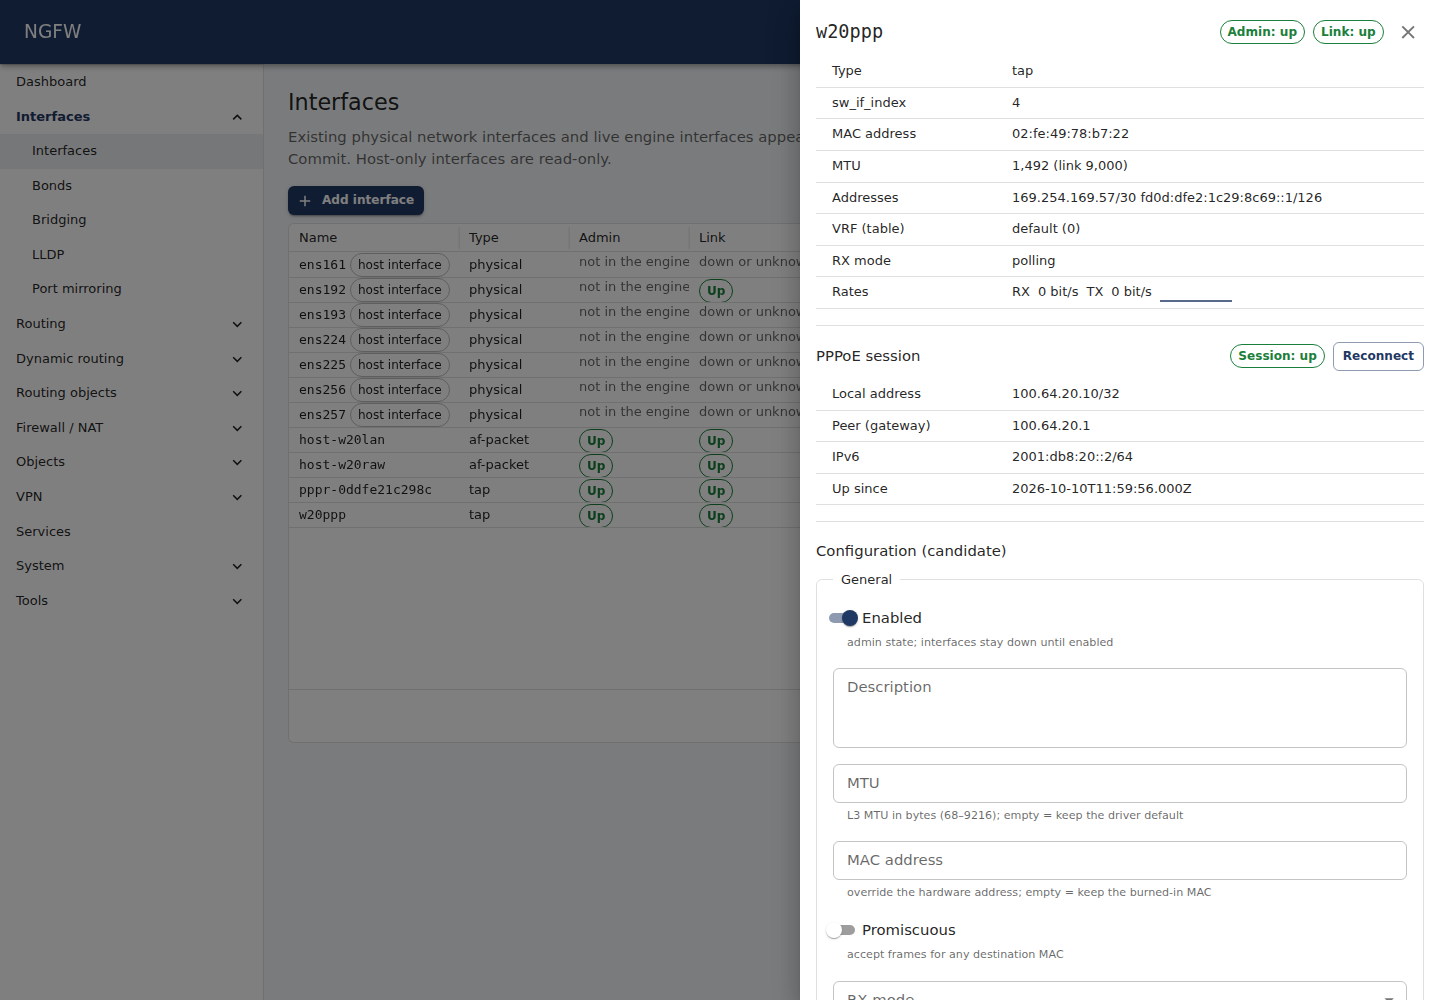
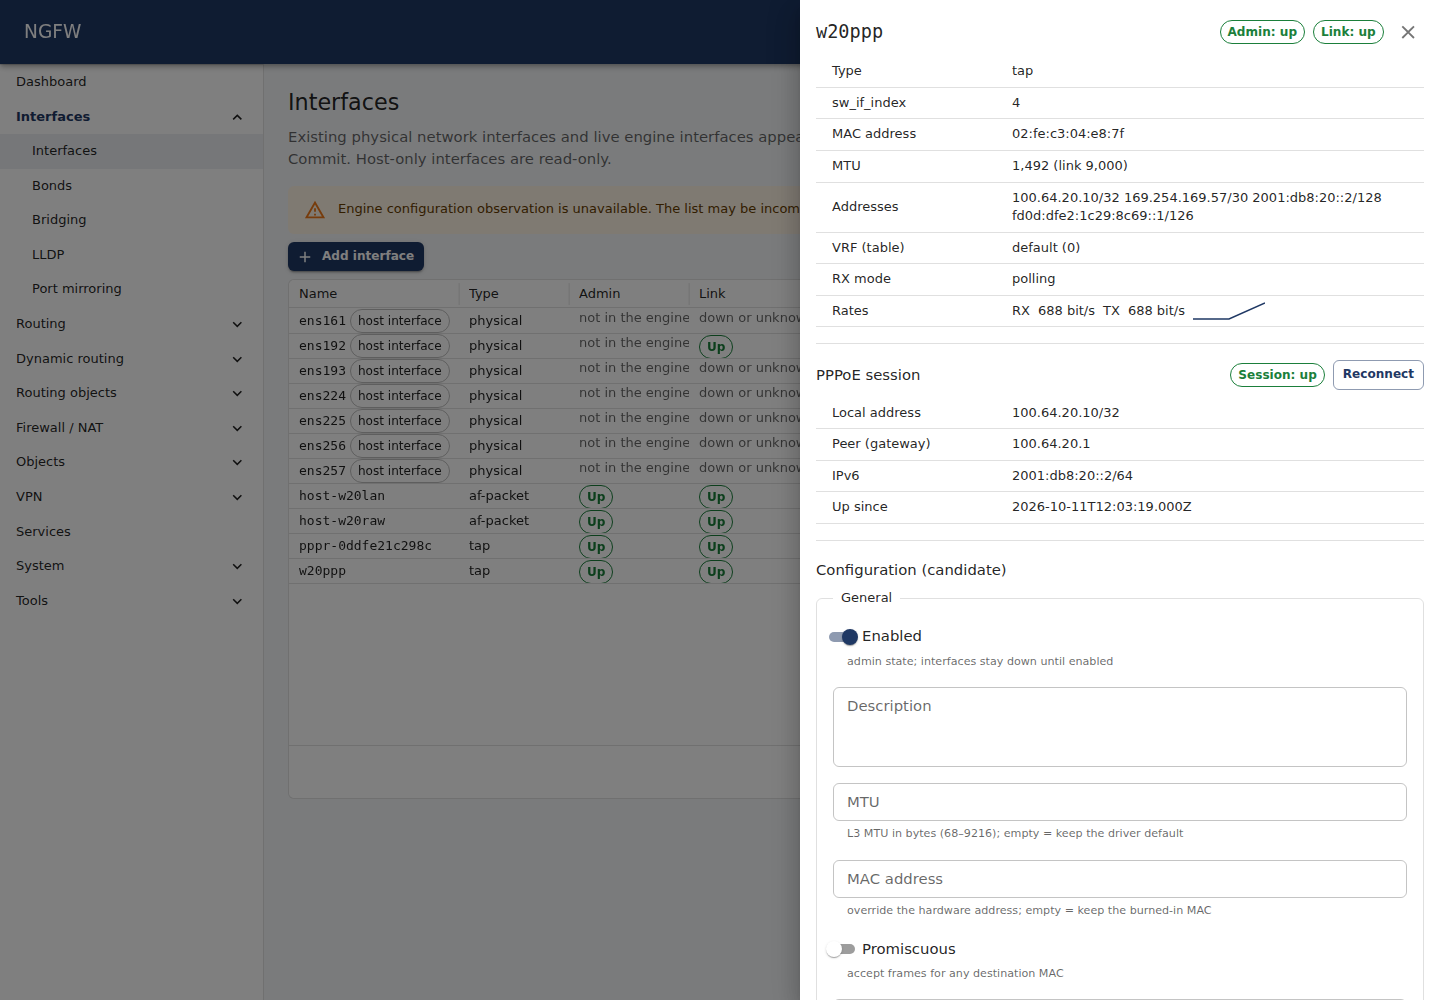
docs(acceptance): record final dual-host PPPoE and MultiWAN proofs

diff --git a/docs/status/tasks/pppoe-ra-completion-20261011-wip.md b/docs/status/tasks/pppoe-ra-completion-20261011-wip.md
@@ -101,7 +101,9 @@ RA stays open.
 
 The genuine source93 agent SHA256
[1 lines of base64/hex data omitted]
-passed the full real-API PPPoE driver on both hosts and the full extended
+passed the baseline real-API PPPoE driver on both hosts (the extended flag
+was accidentally omitted, so these runs do not prove NAT/MSS/peer restart/
+wrong-password acceptance) and the full extended
 1000-flow / automatic-NAT / restart / selective dead-link / PBR MultiWAN
 acceptance on .195. MultiWAN on .250 still exposed an observation/save race:
 resync durably saves the same WAN settings but replaces their snapshot pointer,
@@ -119,3 +121,44 @@ inside the independent network namespace and genuine linux_cp/linux_nl plugins
 are explicitly enabled. These are fixture prerequisites; baseline rejection
 was retained, with no partial desired-state fallback. Canonical activation,
 restart, rollback, API/browser and final-source CI remain pending.
+
+### Final source61 PPPoE and MultiWAN acceptance
+
+Product Go source 61c82b65b2295991f1602c88eaaac0e71b7e8197, static
+agent SHA256 83e7b49dd071ddc34bb45ffc21467eecacb2c9756825bcb0fcf6453e9dbcbb62;
+carrier helper SHA256 dc8e4a2df34537f89bf85f33d60636e5fb1ac7797e9d6c6f606dffcf5a9784a7.
+Mandatory hosted CI 38137613429 PASS (21m13s); packaging 38137613401 PASS.
+The entire local unchanged quick gate passed at c28 (33m51s); that earlier
+local gate is not asserted to cover later Go changes.
+
+Both final PPPoE drivers explicitly used NGFW_WAN_API_EXTENDED=1. On .195
+and .250 all original extended assertions PASS: actual three-packet IPv4/IPv6
+forwarding, default automatic NAT with the negotiated address, native MSS
+1452/1432 in RX/TX, explicit reconnect, loss withdrawal, peer restart and
+recovered packets, real wrong-password error, restored credential and cleared
+errors, both credentials absent from raw logs/config/audit, committed cleanup.
+Restart times were 10.275s and 10.346s against the unchanged 11s criterion.
+The first .195 extended browser run passed genuine endpoint login in English
+and Persian and captured the real active PPP drawer, but FAILED later IPv6
+recovery after peer restart. Its failure is retained; a subsequent full extended
+run passed. The screenshot has a generic engine-observation warning behind
+the drawer. No browser run is represented as full lifecycle acceptance.
+Earlier source93 and initial source61 baseline runs omitted the extended flag;
+the misleading full-acceptance interpretation above is corrected here.
+
+Both final original extended MultiWAN tests PASS (.195 100.42s, .250 79.50s):
+1000 plain flows, 1000 automatic-NAT flows, stable weighted distribution, real
+VPP session persistence after agent restart, complete selective dead-link
+cleanup within the original budget with healthy sessions preserved, restored
+health, PBR precedence over a more-specific ordinary route and 1000 stable
+PBR flows. The private package-identity wrapper changes no shared identity.
+Cleanup and post-incident shared VPP identity checks PASS; the earlier OOM
+incident remains disclosed above. Raw evidence stays private/root0600.
+
+RA is still open. Original-unit native source61 readiness, baseline Retrieve
+and foundation Apply pass after genuine package fixture prerequisites are
+present. Original canonical activation fails at namespace handoff; rollback
+also fails, leaving the isolated agent degraded. These failed cohorts are
+not canonical acceptance, and no EAP connection, restart, rollback or browser
+completion is claimed. No production units, capability masks or deadlines
+were changed to admit these cohorts.
